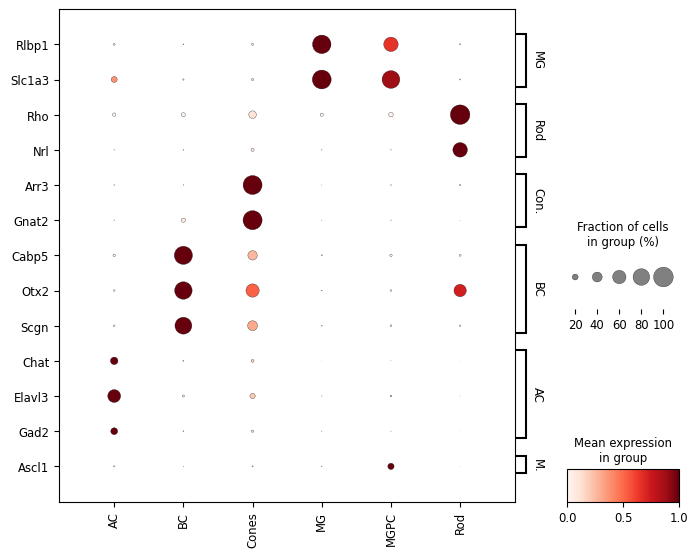
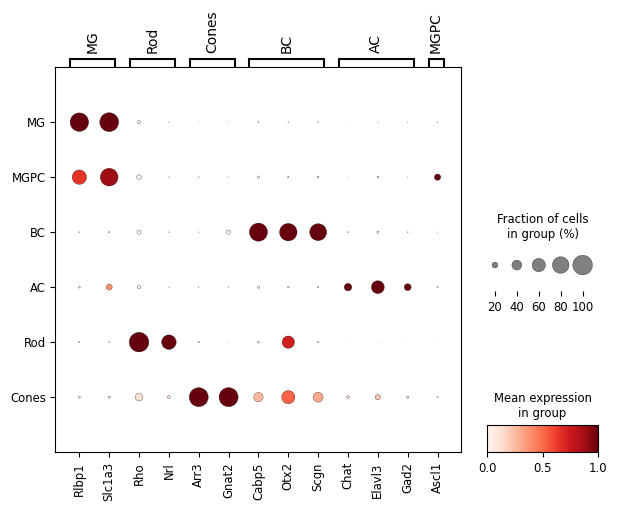
change some figures sizes/points

diff --git a/expression_default.py b/expression_default.py
@@ -35,7 +35,7 @@ for group in groups:
 df_all.to_csv(f"ranked_genes_{base_name}_ALL_noExp_default.csv", index=False)
 
 # Get top N genes per group (by absolute logfc or rank)
-top_n = 5
+top_n = 10
 top_genes_combined = []
 
 for group in groups:
@@ -67,6 +67,7 @@ sc.pl.rank_genes_groups_heatmap(
     n_genes=top_n,
     swap_axes=True,
     use_raw=False,
+    cmap='bwr',
     dendrogram=False,
     save=f"_{base_name}_Top{top_n}Genes_all_clusterDefault.png"
 )

diff --git a/expression.py b/expression.py
@@ -42,7 +42,7 @@ for group in groups:
 df_all.to_csv(f"ranked_genes_{base_name}_ALLtt.csv", index=False)
 
 # Get top N genes per group (by absolute logfc or rank)
-top_n = 5
+top_n = 10
 top_genes_combined = []
 
 for group in groups:
@@ -77,6 +77,7 @@ sc.pl.rank_genes_groups_heatmap(
     swap_axes=True,
     use_raw=True,
     dendrogram=False,
+    cmap='bwr',
     save=f"_{base_name}_Top{top_n}Genes_all_clusterttest.png"
 )
 

diff --git a/expression_wilcoxon.py b/expression_wilcoxon.py
@@ -42,7 +42,7 @@ for group in groups:
 df_all.to_csv(f"ranked_genes_{base_name}_ALLwl.csv", index=False)
 
 # Get top N genes per group (by absolute logfc or rank)
-top_n = 5
+top_n = 10
 top_genes_combined = []
 
 for group in groups:
@@ -77,6 +77,7 @@ sc.pl.rank_genes_groups_heatmap(
     swap_axes=True,
     use_raw=True,
     dendrogram=False,
+    cmap='bwr',
     save=f"_{base_name}_Top{top_n}Genes_all_clusterwl.png"
 )
 

diff --git a/README.md b/README.md
@@ -557,6 +557,23 @@ adata = adata[
 ✅ ✅ [ttest Gene Expressions](https://docs.google.com/spreadsheets/d/1DGXnW9RvCnNbShXm3ecENHvq8_y57AAPmCFAiawWzWM/edit?usp=sharing)
 
 
+
+### 🎯🎯 Using Scanpy default parameters Control vs treatments 
+
+![Heatmap Expression](figures/heatmap_annotated_reclustered_refined_doubletsRemoved_threshold0.8_neurog2_Top10Genes_all_clusterDefaultG.png)
+
+
+✅ ✅ [ttest Gene Expressions](https://docs.google.com/spreadsheets/d/1avMbUsgFsyjhQMzglL1fgvCaEboh7GPju_C5Zfi2pKs/edit?usp=sharing)
+
+
+### 🎯🎯 Using Wilcoxon Control vs treatments 
+
+![Heatmap Expression](figures/heatmap_annotated_reclustered_refined_doubletsRemoved_threshold0.8_neurog2_Top10Genes_all_clusterwlG.png)
+
+✅ ✅ [ttest Gene Expressions](https://docs.google.com/spreadsheets/d/1pMlVsG8R36sjJedXt6VA-5g_VUjkTH9EQKZ85xJYr6g/edit?usp=sharing)
+
+
+
 ## How to run Snakemake 
 
 For dry run to check everything before actual run:
